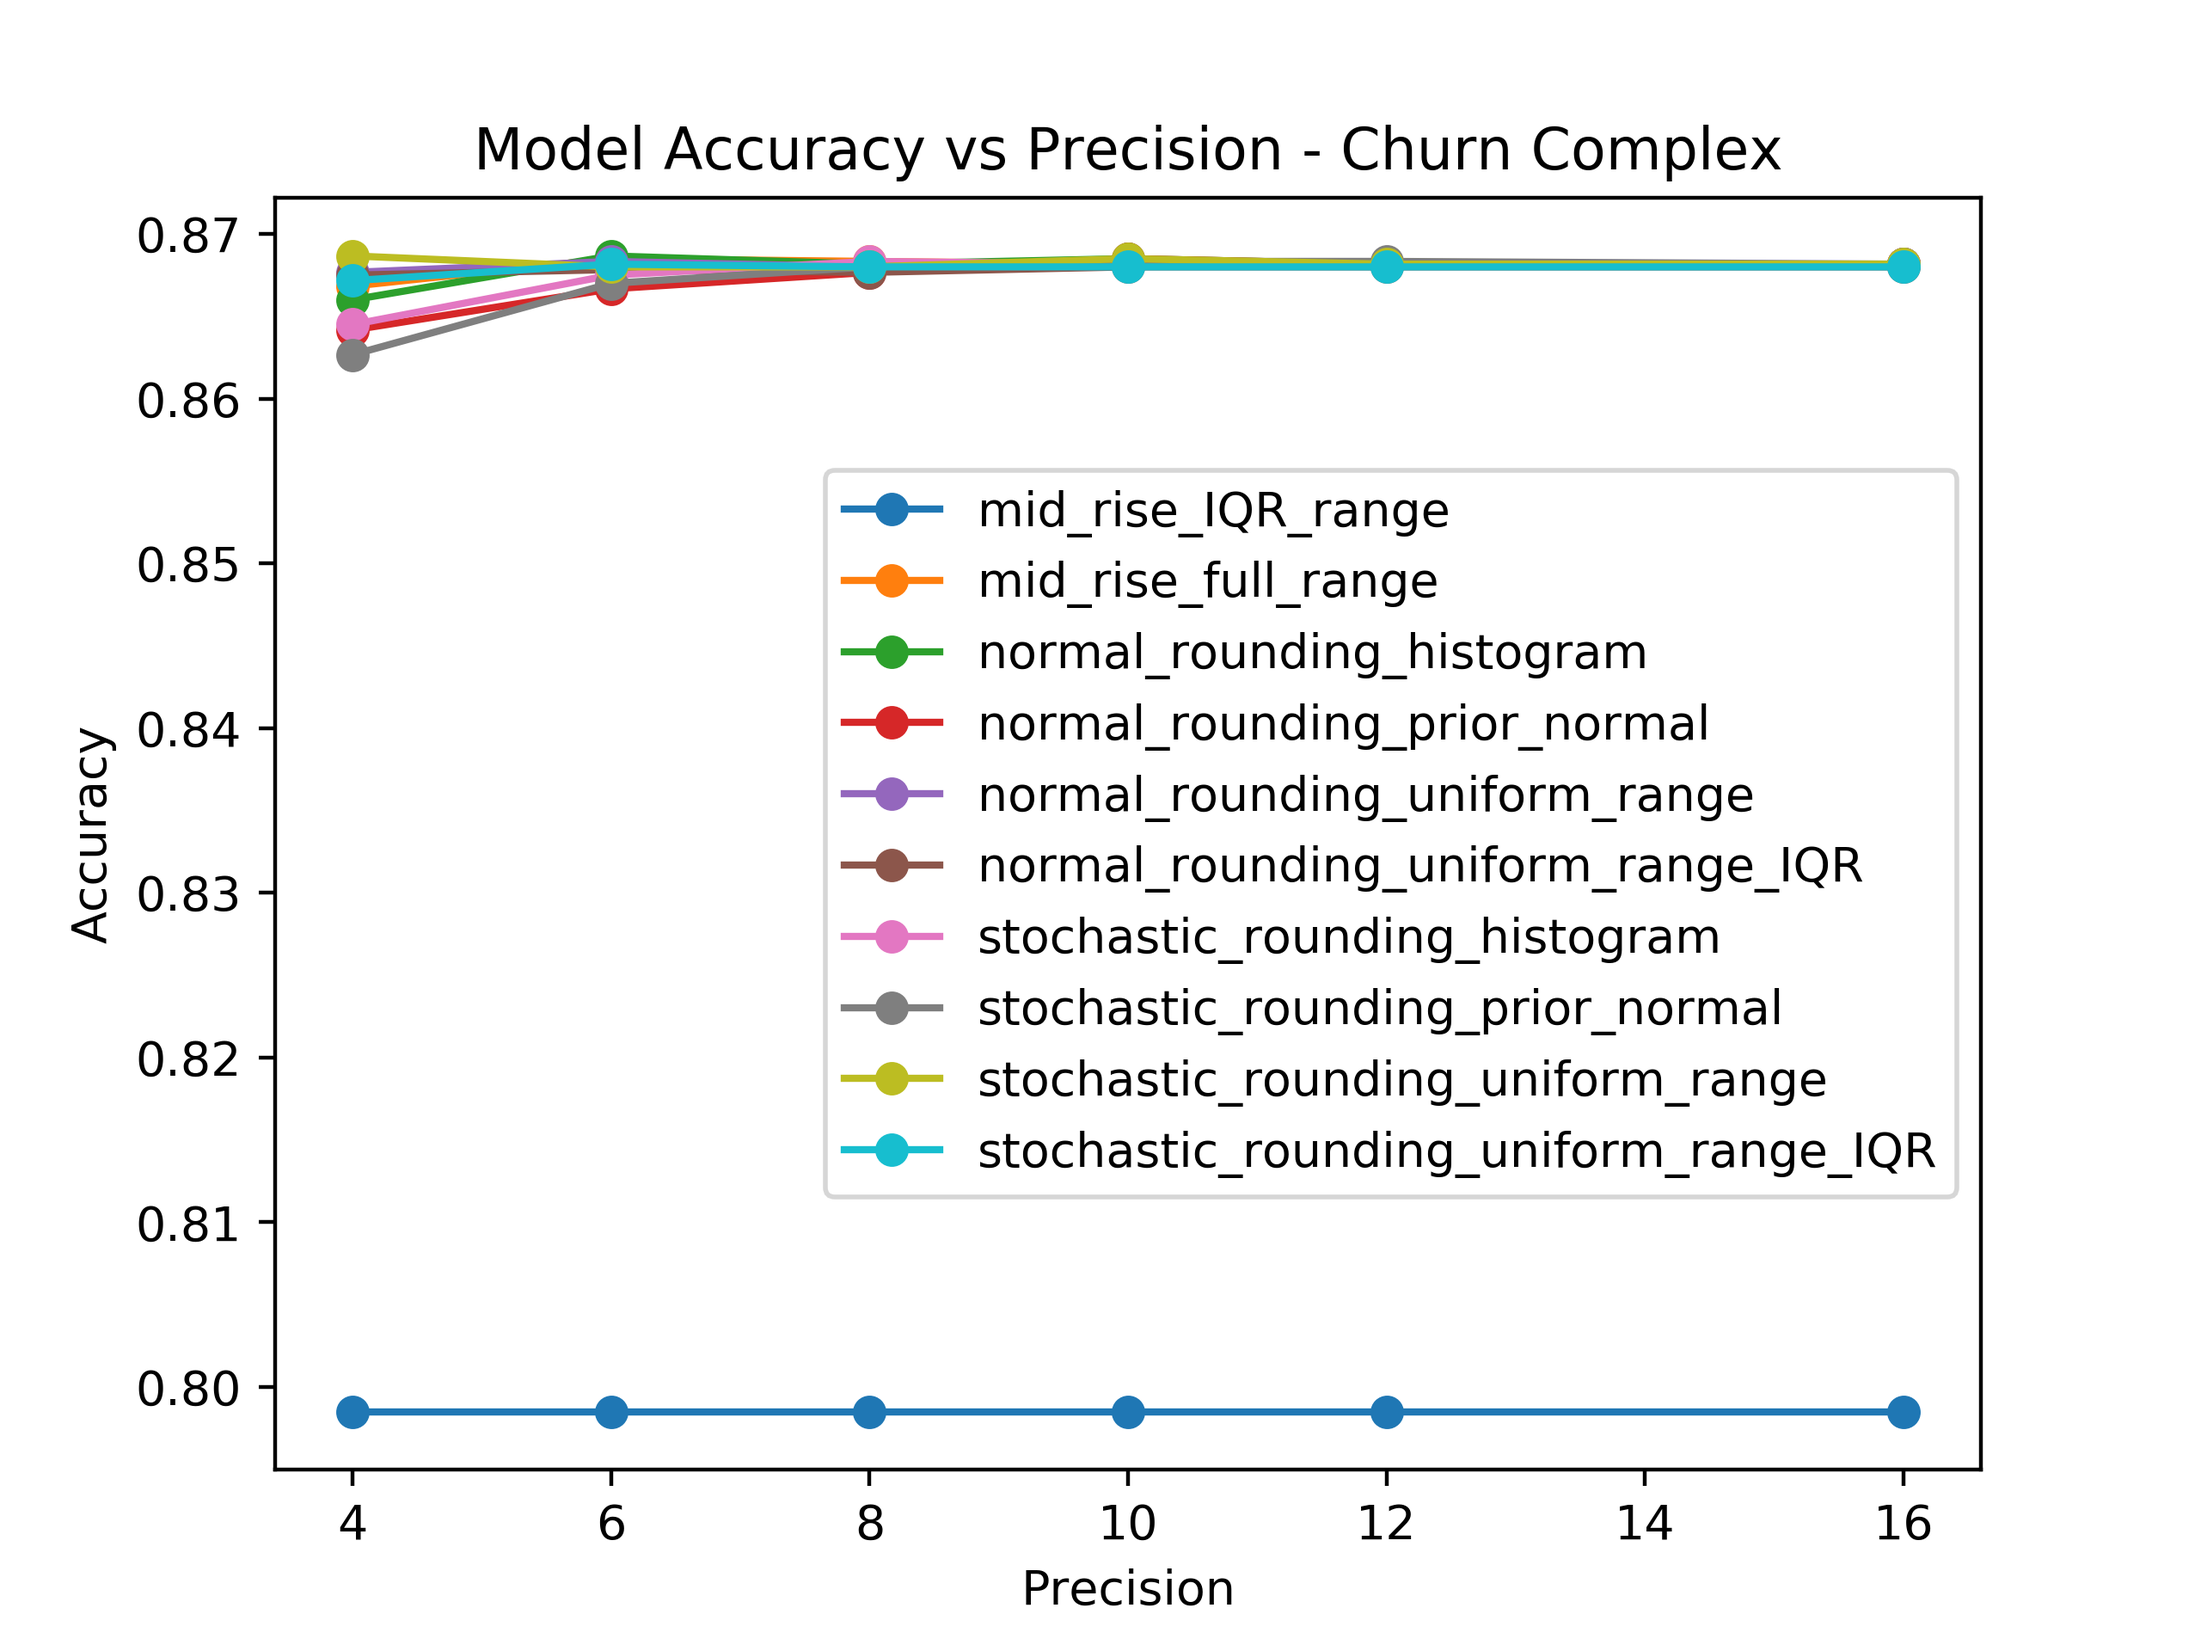
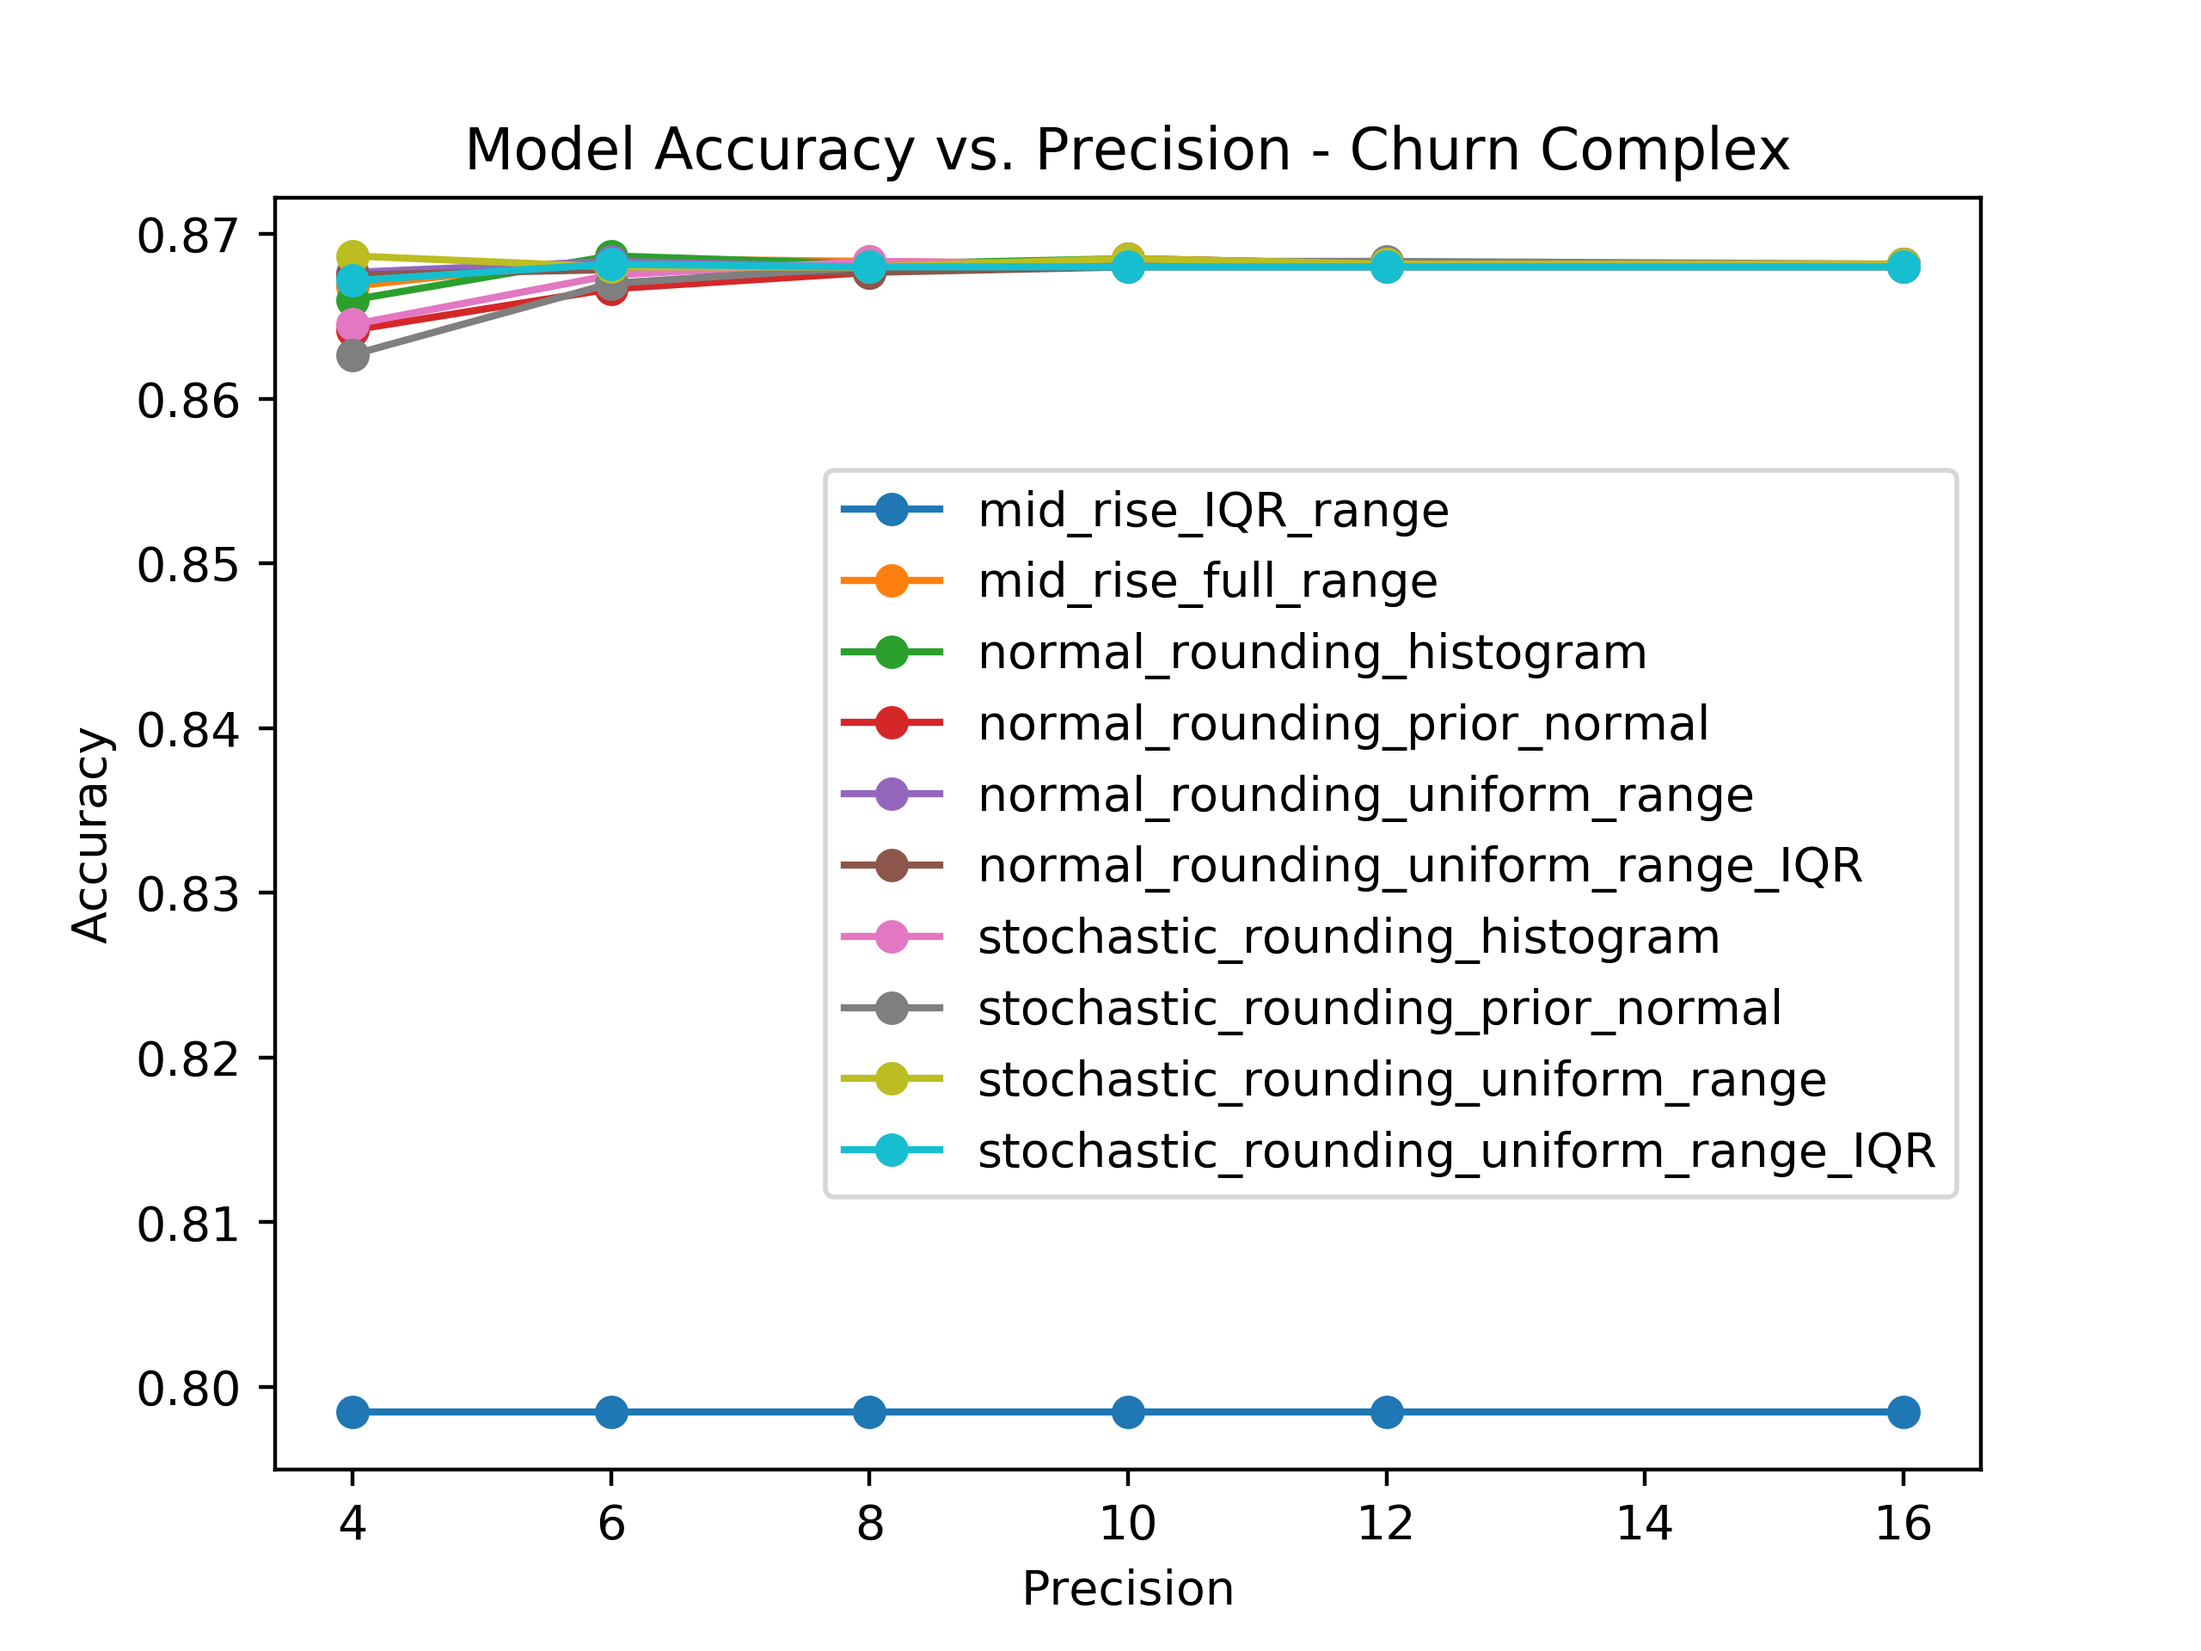
drop in accuracy as precision drops plots

Changed region(s): [[0.2188, 0.0625, 0.8125, 0.125]]

diff --git a/utils/util_functions.py b/utils/util_functions.py
@@ -376,12 +376,12 @@ def plot_accuracy_vs_precision(results_dir_path, plots_dir_path):
             obj = model[model.method == k]
             if obj.train_acc.isna().all():
                 plt.plot(obj.precision, obj.train_loss, label=k, marker='o')
-                plt.title('Model Loss vs Precision - ' + model_title)
+                plt.title('Model Loss vs. Precision - ' + model_title)
                 plt.ylabel('Loss')
 
             else:
                 plt.plot(obj.precision, obj.train_acc, label=k, marker='o')
-                plt.title('Model Accuracy vs Precision - ' + model_title)
+                plt.title('Model Accuracy vs. Precision - ' + model_title)
                 plt.ylabel('Accuracy')
 
         plt.xlabel('Precision')
@@ -391,82 +391,117 @@ def plot_accuracy_vs_precision(results_dir_path, plots_dir_path):
         plt.savefig(str(m[:-3])+'.png', dpi=400)
         plt.clf()
 
+    return None
 
+'''
+Generate Drop in Accuracy vs. Drop in Precision plots for various Quantization
+Argument: From combined .csv result file
+'''
+def plot_delta_accuracy_vs_delta_precision(combined_results_file, plots_dir_path):
+    merge = pd.read_csv(combined_results_file)
+    merge = merge.drop(['Unnamed: 0'], axis=1)
 
+    # filter for classification models
+    regression = ['california_simple.pt', 'california_complex.pt', 'mv_simple.pt', 'mv_complex.pt']
+    merge = merge[~merge.model.isin(regression)]
 
-    # combined = combined[combined.precision > 1]
-    # churn = combined[combined.model == 'cifar_resnet50_model.pt']
-    # mid_rise = churn[churn.method == 'mid-rise']
-    # rounding = churn[churn.method == 'rounding']
-    # stochastic = churn[churn.method == 'stochastic']
-    #
-    # # Accuracy
-    # plt.plot(mid_rise.precision, mid_rise.train_acc, c='tab:blue', label='Mid-Rise Train', marker='o')
-    # plt.plot(mid_rise.precision, mid_rise.test_acc, c='tab:blue', ls='--', label='Mid-Rise Test')
-    # plt.plot(rounding.precision, rounding.train_acc, c='tab:orange', label='Rounding Train', marker='o')
-    # plt.plot(rounding.precision, rounding.test_acc, c='tab:orange', ls='--', label='Rounding Test')
-    # plt.plot(stochastic.precision, stochastic.train_acc, c='tab:green', label='Stochastic Train', marker='o')
-    # plt.plot(stochastic.precision, stochastic.test_acc, c='tab:green', ls='--', label='Stochastic Test')
-    # plt.title('Model Accuracy post Quantization - ResNet 50 on CIFAR-100 Data')
-    # plt.ylabel('Accuracy')
-    # plt.xlabel('Precision')
-    # plt.legend()
-    # plt.show()
-    #
-    #
-    # # Loss
-    # plt.plot(mid_rise.precision, mid_rise.train_loss, c='tab:blue', label='Mid-Rise Train', marker='o')
-    # plt.plot(mid_rise.precision, mid_rise.test_loss, c='tab:blue', ls='--', label='Mid-Rise Test')
-    # plt.plot(rounding.precision, rounding.train_loss, c='tab:orange', label='Rounding Train', marker='o')
-    # plt.plot(rounding.precision, rounding.test_loss, c='tab:orange', ls='--', label='Rounding Test')
-    # plt.plot(stochastic.precision, stochastic.train_loss, c='tab:green', label='Stochastic Train', marker='o')
-    # plt.plot(stochastic.precision, stochastic.test_loss, c='tab:green', ls='--', label='Stochastic Test')
-    # plt.title('Model Loss post Quantization - ResNet 50 on CIFAR-100 Data')
-    # plt.ylabel('Loss')
-    # plt.xlabel('Precision')
-    # plt.legend()
-    # plt.show()
+    # compute delta of accuracy and precision
+    merge['max_train_acc'] = merge.groupby(['model', 'method'])['train_acc'].transform('max')
+    merge['diff_accuracy'] = merge.apply(lambda x: x.train_acc - x.max_train_acc, axis=1)
+    merge['diff_precision'] = merge.precision.apply(lambda x: x-16)
+    merge.to_csv('yo yo.csv')
 
-    # print(combined.groupby(['model']).groups.keys())
-    # combined = combined[combined.diff_precision !=0]
-    # combined = combined[combined.method == 'stochastic']
-    # plt.plot(combined[combined.model == 'churn_simple.pt'].diff_precision,
-    #          combined[combined.model == 'churn_simple.pt'].diff_train_acc,
-    #          label = 'Churn Simple')
-    # plt.plot(combined[combined.model == 'churn_complex.pt'].diff_precision,
-    #          combined[combined.model == 'churn_complex.pt'].diff_train_acc,
-    #          label='Churn Complex')
-    # plt.plot(combined[combined.model == 'telescope_simple.pt'].diff_precision,
-    #          combined[combined.model == 'telescope_simple.pt'].diff_train_acc,
-    #          label='Telescope Simple')
-    # plt.plot(combined[combined.model == 'telescope_complex.pt'].diff_precision,
-    #          combined[combined.model == 'telescope_complex.pt'].diff_train_acc,
-    #          label='Telescope Complex')
-    # plt.plot(combined[combined.model == 'fmnist_cnn_model.pt'].diff_precision,
-    #          combined[combined.model == 'fmnist_cnn_model.pt'].diff_train_acc,
-    #          label='FMNIST Vanilla CNN')
-    # plt.plot(combined[combined.model == 'fmnist_resnet9_model.pt'].diff_precision,
-    #          combined[combined.model == 'fmnist_resnet9_model.pt'].diff_train_acc,
-    #          label='FMNIST ResNet 9')
-    # plt.plot(combined[combined.model == 'fmnist_resnet50_model.pt'].diff_precision,
-    #          combined[combined.model == 'fmnist_resnet50_model.pt'].diff_train_acc,
-    #          label='FMNIST ResNet 50')
-    # plt.plot(combined[combined.model == 'cifar_cnn_model.pt'].diff_precision,
-    #          combined[combined.model == 'cifar_cnn_model.pt'].diff_train_acc,
-    #          label='CIFAR-100 Vanilla CNN')
-    # plt.plot(combined[combined.model == 'cifar_resnet9_model.pt'].diff_precision,
-    #          combined[combined.model == 'cifar_resnet9_model.pt'].diff_train_acc,
-    #          label='CIFAR-100 ResNet 9')
-    # plt.plot(combined[combined.model == 'cifar_resnet50_model.pt'].diff_precision,
-    #          combined[combined.model == 'cifar_resnet50_model.pt'].diff_train_acc,
-    #          label='CIFAR-100 ResNet 50')
-    # plt.title('Drop in Accuracy vs. Drop in Decimal Precision for Stochastic Rounding')
-    # plt.xlabel('Delta Decimal Precision')
-    # plt.ylabel('Delta Accuracy')
-    # plt.legend()
-    # plt.show()
-    # print(combined)
+    # mid-rise
+    mid_rise = merge[merge.quant_method == 'mid_rise']
+    method = list(mid_rise.groupby(['bin_method']).groups.keys())
+
+    fig, axes = plt.subplots(1, 2, figsize=(14,6))
+    for i in range(len(method)):
+        model_name = list(mid_rise[mid_rise.bin_method == method[i]].groupby(['model']).groups.keys())
+        model_title = [' '.join(name[:-3].split('_')).title() for name in model_name]
+
+        mid_rise_method = mid_rise[mid_rise.bin_method == method[i]]
+        for j in range(len(model_name)):
+            axes[i].plot(mid_rise_method[mid_rise_method.model == model_name[j]].diff_precision,
+                         mid_rise_method[mid_rise_method.model == model_name[j]].diff_accuracy,
+                         label = model_title[j])
+        axes[i].set_title('Drop in Accuracy vs. Precision for Mid-Rise ' + method[i])
+        axes[i].set_xlabel('Change in Precision (wrt 16)')
+        axes[i].set_ylabel('Accuracy Drop')
+
+    axes[0].legend()
+    os.chdir('../utils/' + plots_dir_path)
+    plt.savefig('mid_rise_delta.png', dpi=400)
+    plt.clf()
+
+    # rounding
+    rounding = merge[merge.quant_method == 'normal_rounding']
+    method = list(rounding.groupby(['bin_method']).groups.keys())
+
+    fig, axes = plt.subplots(2, 2, figsize=(14, 12))
+    for i in range(len(method)):
+        model_name = list(rounding[rounding.bin_method == method[i]].groupby(['model']).groups.keys())
+        model_title = [' '.join(name[:-3].split('_')).title() for name in model_name]
+
+        rounding_method = rounding[rounding.bin_method == method[i]]
+        if i == 0:
+            x = y = 0
+        if i == 1:
+            x = 0
+            y = 1
+        if i == 2:
+            x = 1
+            y = 0
+        if i == 3:
+            x = y = 1
+
+        for j in range(len(model_name)):
+            axes[x, y].plot(rounding_method[rounding_method.model == model_name[j]].diff_precision,
+                         rounding_method[rounding_method.model == model_name[j]].diff_accuracy,
+                         label=model_title[j])
+        axes[x, y].set_title('Drop in Accuracy vs. Precision for Normal Rounding ' + method[i])
+        axes[x, y].set_xlabel('Change in Precision (wrt 16)')
+        axes[x, y].set_ylabel('Accuracy Drop')
+
+    axes[1, 1].legend()
+    plt.savefig('normal_rounding_delta.png', dpi=400)
+    plt.clf()
+
+    # stochastic
+    stochastic = merge[merge.quant_method == 'stochastic_rounding']
+    method = list(stochastic.groupby(['bin_method']).groups.keys())
+
+    fig, axes = plt.subplots(2, 2, figsize=(14, 12))
+    for i in range(len(method)):
+        model_name = list(stochastic[stochastic.bin_method == method[i]].groupby(['model']).groups.keys())
+        model_title = [' '.join(name[:-3].split('_')).title() for name in model_name]
+
+        stochastic_method = stochastic[stochastic.bin_method == method[i]]
+        if i == 0:
+            x = y = 0
+        if i == 1:
+            x = 0
+            y = 1
+        if i == 2:
+            x = 1
+            y = 0
+        if i == 3:
+            x = y = 1
+
+        for j in range(len(model_name)):
+            axes[x, y].plot(stochastic_method[stochastic_method.model == model_name[j]].diff_precision,
+                            stochastic_method[stochastic_method.model == model_name[j]].diff_accuracy,
+                            label=model_title[j])
+        axes[x, y].set_title('Drop in Accuracy vs. Precision for Stochastic Rounding ' + method[i])
+        axes[x, y].set_xlabel('Change in Precision (wrt 16)')
+        axes[x, y].set_ylabel('Accuracy Drop')
+
+    axes[1, 1].legend()
+    plt.savefig('stochastic_rounding_delta.png', dpi=400)
+    plt.clf()
 
     return None
 
+
 # plot_accuracy_vs_precision('../data/results', '../data/plots')
+# plot_delta_accuracy_vs_delta_precision('../data/results/combined_results.csv', '../data/plots')
